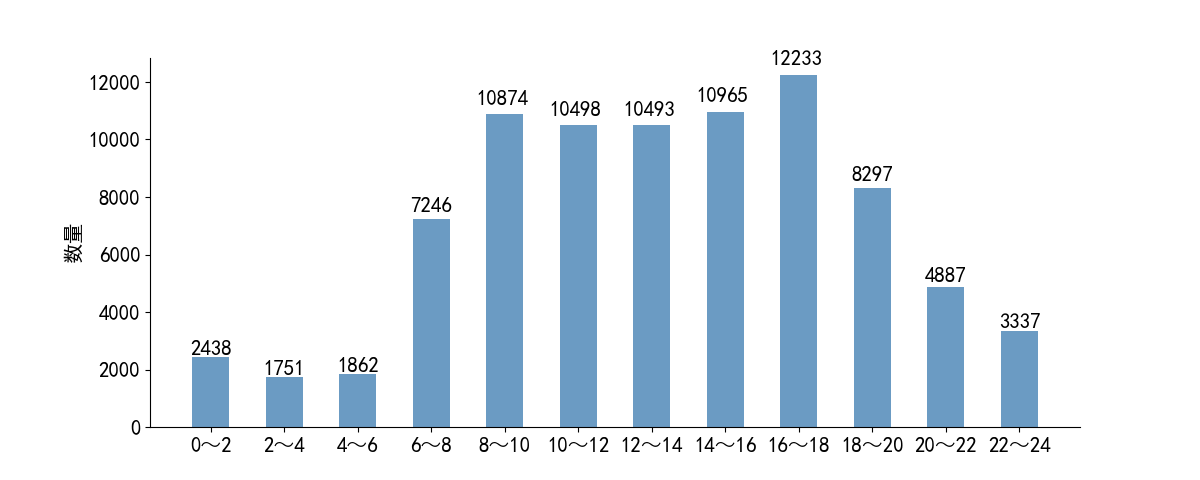
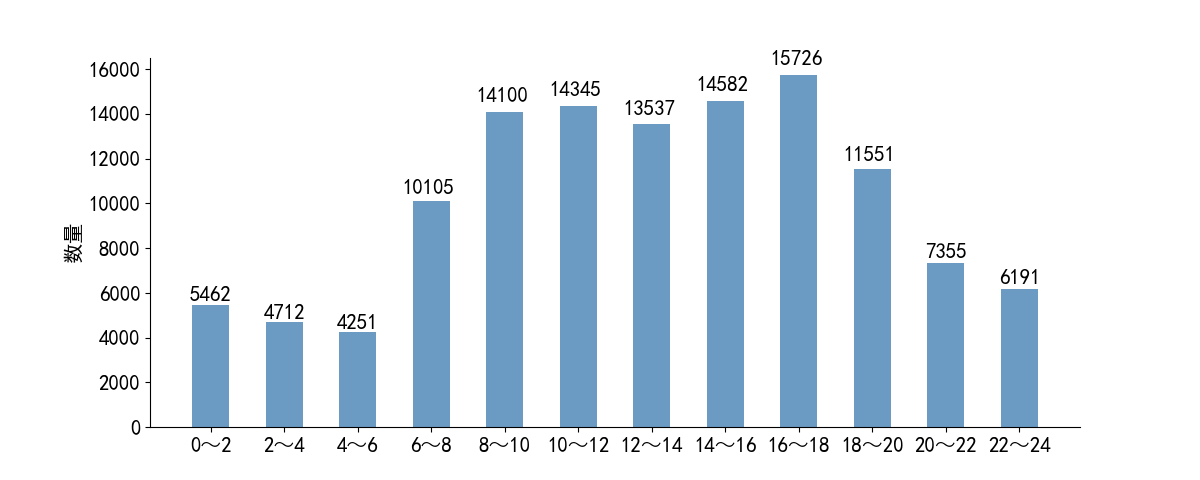
upgrading for the data of month 5

diff --git a/HelinConsoleApp/Program.cs b/HelinConsoleApp/Program.cs
@@ -81,8 +81,8 @@ namespace HelinConsoleApp
             var Gross_Load_Dist = new List<int>();
             var Gross_Load_Dist2 = new List<int>();
 
-            var StartDataTime = new DateTime(2020, 4, 1, 0, 0, 0);
-            var FinishDataTime = new DateTime(2020, 5, 1, 0, 0, 0);
+            var StartDataTime = new DateTime(2020, 5, 1, 0, 0, 0);
+            var FinishDataTime = new DateTime(2020, 6, 1, 0, 0, 0);
 
             //Expression<Func<HS_Data_201908, bool>> dataPredicate = x => x.HSData_DT >= StartDataTime && x.HSData_DT <= FinishDataTime;
 
@@ -92,7 +92,7 @@ namespace HelinConsoleApp
                 {
                     #region HS_DataForAnalysis
                     var HS_DataForAnalysis = (
-                        from c in db.HS_Data_202003
+                        from c in db.HS_Data_202004
                         select new MyHS_Data
                         {
                             Acceleration = c.Acceleration,
@@ -135,7 +135,7 @@ namespace HelinConsoleApp
                             Gross_Load = c.Gross_Load
                         }
                         ).Union(
-                        from e in db.HS_Data_202004
+                        from e in db.HS_Data_202005
                         select new MyHS_Data
                         {
                             Acceleration = e.Acceleration,

diff --git a/PythonApplication/PythonApplication.py b/PythonApplication/PythonApplication.py
@@ -88,10 +88,10 @@ def plotItem(plt,itemChosen):
     #不同时间段车辆总数
     #不同速度车辆数及比例
     y_dataList=[
-    [29012,11077,887,391],
-    [28230,3590,1449,10245],
-    [2438,1751,1862,7246,10874,10498,10493,10965,12233,8297,4887,3337],
-    [531,19996,55361,8993]
+    [43973,14368,1609,334],
+    [39350,6614,14951,718],
+    [5462,4712,4251,10105,14100,14345,13537,14582,15726,11551,7355,6191],
+    [913,42737,70069,8198]
     ]
 
     ## 包含每个柱子对应值的序列

diff --git a/HelinConsoleApp/Model1.Designer.cs b/HelinConsoleApp/Model1.Designer.cs
@@ -1,4 +1,4 @@
-// 为模型“E:\vsProjects\HelinConsoleApp\HelinConsoleApp\Model1.edmx”启用了 T4 代码生成。
+// 为模型“C:\VsProjects\HelinConsoleApp\HelinConsoleApp\Model1.edmx”启用了 T4 代码生成。
 // 要启用旧代码生成功能，请将“代码生成策略”设计器属性的值
 // 更改为“旧的 ObjectContext”。当在设计器中打开该模型时，此属性会出现在
 // “属性”窗口中。
